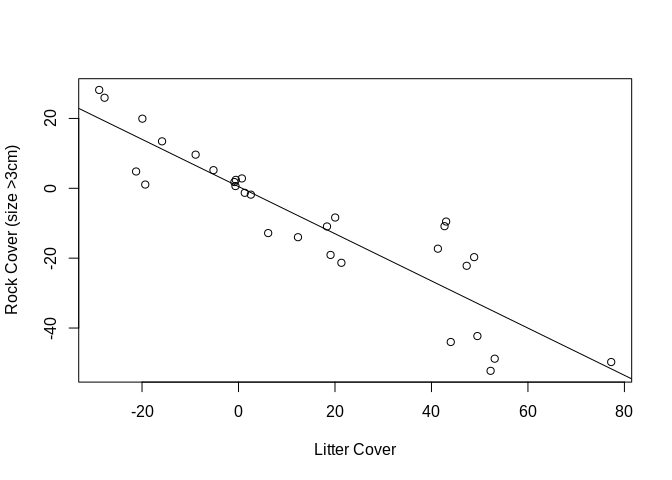
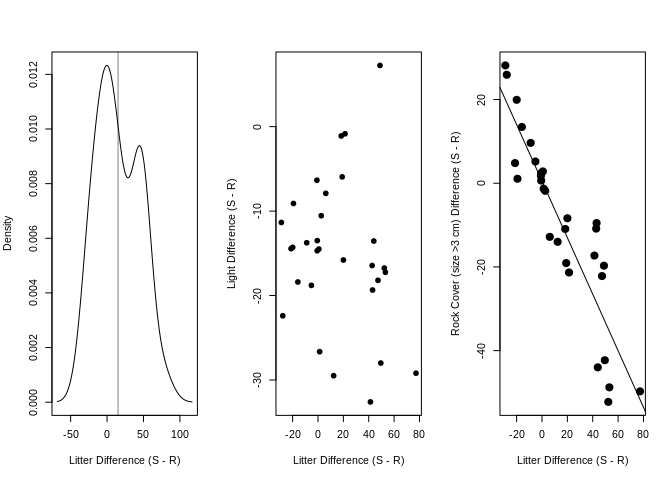
Updates scrl figure litter_effects

diff --git a/src/scrl_report.md b/src/scrl_report.md
@@ -671,27 +671,25 @@ large rocks.
     ## -0.9027609
 
     pdf("../results/scrl_litterVbigrocks.pdf", width = 5, height = 5)
-    plot(env.dif[, "Big.rocks.."] ~ env.dif[, "Litter.."], 
-         xlab = "Litter Cover", ylab = "Rock Cover (size >3 cm)",
-         pch = 19, cex = 1.5)
-    abline(lm(env.dif[, "Big.rocks.."] ~ env.dif[, "Litter.."]))
     dev.off()
 
     ## X11cairo 
     ##        2
 
-    pdf("../results/scrl_litterVlight.pdf", width = 9, height = 5)
-
-    par(mfrow = c(1,2))
+    pdf("../results/scrl_litterVlight.pdf", width = 15, height = 7)
+    par(mfrow = c(1,3))
     plot(density(tapply(l.dat[, "Litter.."], l.dat[, "Tree.pairs"], diff)), 
         main = "", xlab = "Litter Difference (S - R)")
     abline(v = mean(tapply(l.dat[, "Litter.."], l.dat[, "Tree.pairs"], diff)),
         lwd = 0.5)
+    plot(env.dif[, "Big.rocks.."] ~ env.dif[, "Litter.."], 
+         xlab = "Litter Difference (S - R)", ylab = "Rock Cover (size >3 cm) Difference (S - R)",
+         pch = 19, cex = 1.5)
+    abline(lm(env.dif[, "Big.rocks.."] ~ env.dif[, "Litter.."]))
     plot(tapply(l.dat[, "Litter.."], l.dat[, "Tree.pairs"], diff), 
         tapply(l.dat[, "Light...average"], l.dat[, "Tree.pairs"], diff), 
         xlab = "Litter Difference (S - R)", ylab = "Light Difference (S - R)",
-        pch = 19)
-
+        pch = 19, cex = 1.5)
     dev.off()
 
     ## X11cairo 
